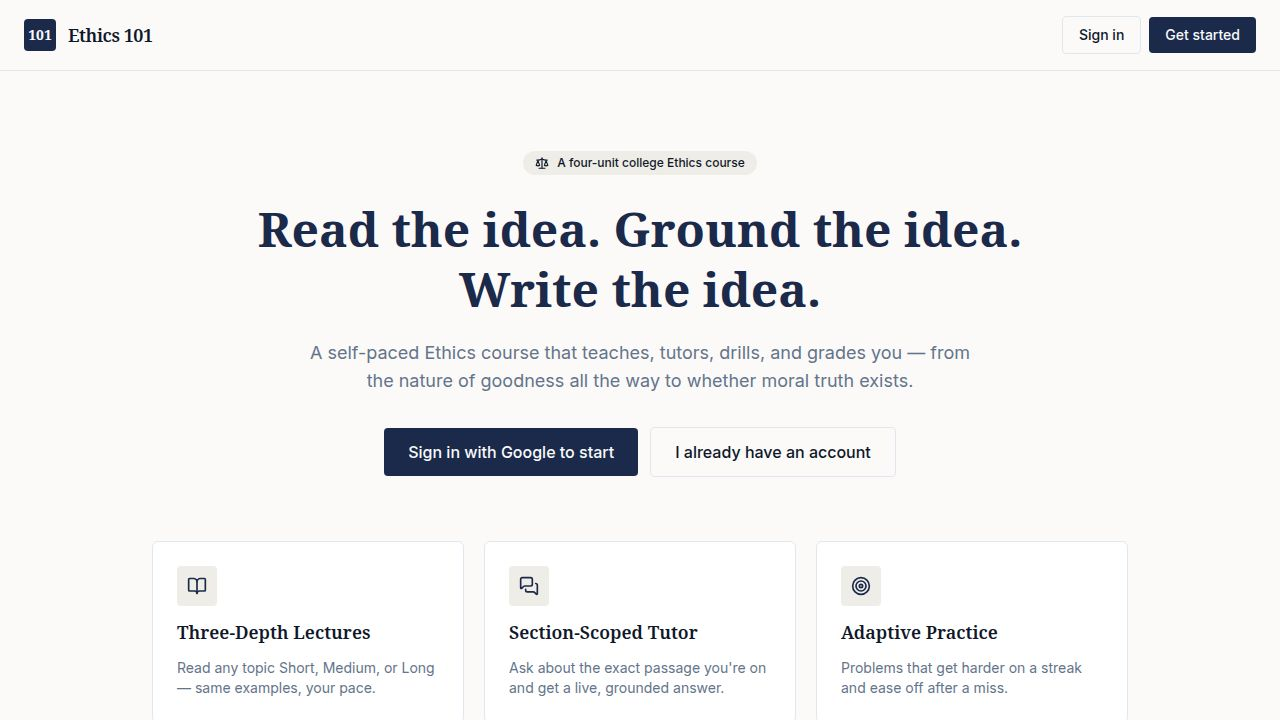
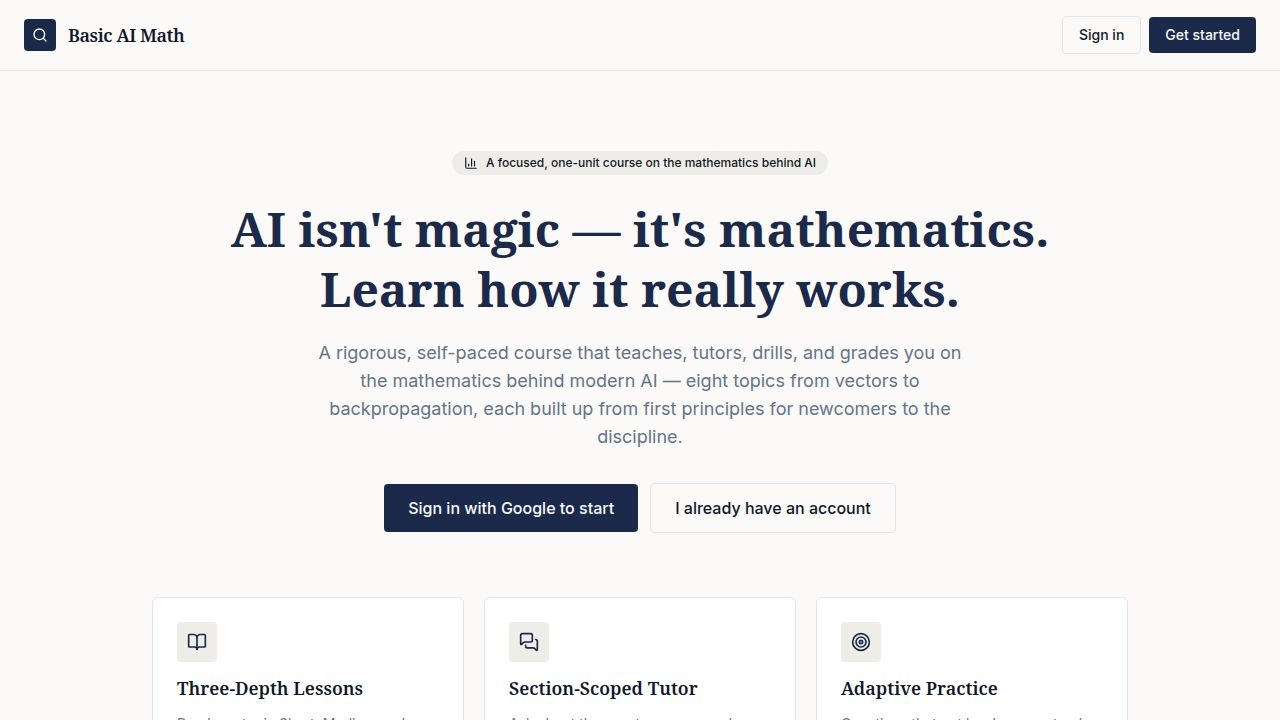
Update course branding and content to reflect a more professional audience
Rename course from "Baby AI Math" to "Basic AI Math" across all UI elements, documentation, and metadata. Update lecture content to remove child-friendly language and reframe the audience towards researchers and professionals. Adjust seed content version to trigger a re-seeding of the database with the updated course material.

Replit-Commit-Author: Agent
Replit-Commit-Session-Id: 9e80b682-9e79-450a-805c-8932b54b2754
Replit-Commit-Checkpoint-Type: full_checkpoint
Replit-Commit-Event-Id: 53d1e0ff-c131-4b32-b947-2a290ebf332c
Replit-Commit-Screenshot-Url: https://storage.googleapis.com/screenshot-production-us-central1/c5ab8a75-cbab-4a05-9f81-a2025e105624/9e80b682-9e79-450a-805c-8932b54b2754/7X1zvFt

diff --git a/artifacts/api-server/src/lib/seed.ts b/artifacts/api-server/src/lib/seed.ts
@@ -14,7 +14,7 @@ import { logger } from "./logger";
 // the value stored in seed_meta; a mismatch forces a full re-seed, so content
 // edits self-heal in every environment (including a republished production)
 // without a manual database wipe.
-const SEED_CONTENT_VERSION = "2026-06-15-baby-ai-math-v1";
+const SEED_CONTENT_VERSION = "2026-06-16-basic-ai-math-v2";
 
 type SeedTopic = {
   slug: string;
@@ -26,7 +26,7 @@ type SeedTopic = {
 };
 
 const TOPICS: SeedTopic[] = [
-  // Unit 1 — Baby AI Math: the math behind the machine
+  // Unit 1 — Basic AI Math: the math behind the machine
   {
     slug: "why-ai-is-really-math",
     title: "Why AI is really math",
@@ -35,7 +35,7 @@ const TOPICS: SeedTopic[] = [
     lectureTitle: "1.1 Why AI is really math (the idea behind the machine)",
     body: `# Why AI is really math
 
-You type a question and a chatbot answers in fluent, friendly sentences — it really does feel like there's a tiny mind inside the box. There isn't. Underneath the human-sounding words, an AI is doing one thing: an unimaginable amount of plain arithmetic on lists of numbers. This whole course is about that surprising truth — **AI is really math** — and the good news is the math behind it is far gentler than its reputation.
+You type a question and a chatbot answers in fluent, natural sentences — it really does feel like there's a mind inside the box. There isn't. Underneath the human-sounding words, an AI is doing one thing: an unimaginable amount of plain arithmetic on lists of numbers. This whole course is about that surprising truth — **AI is really math** — and the good news is the math behind it is far gentler than its reputation.
 
 ## Everything becomes numbers
 
@@ -155,7 +155,7 @@ When a translation model turns an English sentence into Spanish, your words ente
     lectureTitle: "1.5 Slopes and gradients: which way is 'better'?",
     body: `# Slopes and gradients
 
-So far we have a machine that turns inputs into outputs by pushing numbers through matrices. But out of the box, its millions of dials are set to nonsense and its answers are wrong. To learn, it has to figure out, for every single dial, *which way should I turn this to do better?* The mathematical idea that answers "which way is better" is the **slope**, and its grown-up version — the **gradient** — is the compass that all of AI learning is built on.
+So far we have a machine that turns inputs into outputs by pushing numbers through matrices. But out of the box, its millions of dials are set to nonsense and its answers are wrong. To learn, it has to figure out, for every single dial, *which way should I turn this to do better?* The mathematical idea that answers "which way is better" is the **slope**, and its higher-dimensional version — the **gradient** — is the compass that all of AI learning is built on.
 
 ## Slope: how steep, and which way
 
@@ -388,7 +388,7 @@ const ASSIGNMENTS: SeedAssignment[] = [
   },
   {
     kind: "test",
-    title: "Unit Test — Baby AI Math: The Math Behind the Machine",
+    title: "Unit Test — Basic AI Math: The Math Behind the Machine",
     weekNumber: 1,
     isTimed: true,
     timeLimitMinutes: 30,
@@ -471,7 +471,7 @@ const ASSIGNMENTS: SeedAssignment[] = [
   },
   {
     kind: "final",
-    title: "Final — Baby AI Math: The Math Behind the Machine",
+    title: "Final — Basic AI Math: The Math Behind the Machine",
     weekNumber: 1,
     isTimed: true,
     timeLimitMinutes: 45,
@@ -640,7 +640,7 @@ export async function seedReasoningPrimersIfMissing(): Promise<void> {
 }
 
 export async function seedIfEmpty(): Promise<void> {
-  // The course was migrated to the Baby AI Math syllabus. Detect the marker
+  // The course was migrated to the Basic AI Math syllabus. Detect the marker
   // topic; if present and the content version matches, the content is current
   // and we skip. This makes the seed self-healing across environments: a
   // database that still holds older content (e.g. a previous curriculum) is
@@ -689,7 +689,7 @@ export async function seedIfEmpty(): Promise<void> {
     const row = (existing.rows[0] ?? {}) as { n?: number };
     if ((row.n ?? 0) > 0) {
       logger.warn(
-        "Seed: stale course content detected — replacing with the Baby AI Math curriculum",
+        "Seed: stale course content detected — replacing with the Basic AI Math curriculum",
       );
       await tx.execute(
         sql`TRUNCATE TABLE answers, attempts, practice_attempts, practice_problems, practice_sessions, problems, assignments, lectures, topics, diagnostic_responses, diagnostic_attempts, diagnostic_items, diagnostic_assessments RESTART IDENTITY CASCADE`,

diff --git a/artifacts/qr-course/src/pages/Landing.tsx b/artifacts/qr-course/src/pages/Landing.tsx
@@ -62,7 +62,7 @@ export default function Landing() {
             <Search className="w-4 h-4" />
           </div>
           <span className="font-serif font-semibold text-lg tracking-tight">
-            Baby AI Math
+            Basic AI Math
           </span>
         </div>
         <div className="flex items-center gap-2">
@@ -89,15 +89,16 @@ export default function Landing() {
         <section className="max-w-4xl mx-auto px-6 pt-20 pb-16 text-center">
           <div className="inline-flex items-center gap-2 px-3 py-1 rounded-full bg-secondary text-secondary-foreground text-xs font-medium mb-6">
             <BarChart3 className="w-3.5 h-3.5" />
-            A friendly, one-unit intro to the math behind AI
+            A focused, one-unit course on the mathematics behind AI
           </div>
           <h1 className="text-4xl md:text-5xl font-serif font-bold text-primary leading-tight mb-5">
-            AI isn't magic — it's math. Let's understand it together.
+            AI isn't magic — it's mathematics. Learn how it really works.
           </h1>
           <p className="text-lg text-muted-foreground max-w-2xl mx-auto mb-8">
-            A self-paced course that teaches, tutors, drills, and grades you —
-            the math behind AI in plain language, no prior math needed — every idea
-            is explained in plain words. Perfect for curious students and grown-ups alike.
+            A rigorous, self-paced course that teaches, tutors, drills, and grades
+            you on the mathematics behind modern AI — eight topics from vectors to
+            backpropagation, each built up from first principles for newcomers to
+            the discipline.
           </p>
           <div className="flex items-center justify-center gap-3">
             <Link href="/sign-up">
@@ -162,7 +163,7 @@ export default function Landing() {
       </main>
 
       <footer className="border-t border-border px-6 py-6 text-center text-sm text-muted-foreground">
-        Baby AI Math — where the curriculum, the tutor, the grader, and the
+        Basic AI Math — where the curriculum, the tutor, the grader, and the
         integrity check all live in one room.
       </footer>
     </div>

diff --git a/artifacts/qr-course/index.html b/artifacts/qr-course/index.html
@@ -3,14 +3,14 @@
   <head>
     <meta charset="UTF-8" />
     <meta name="viewport" content="width=device-width, initial-scale=1.0" />
-    <title>Baby AI Math</title>
-    <meta name="description" content="Baby AI Math — a friendly, self-paced intro to the math behind AI for students and curious adults: plain-language lessons, an AI tutor, adaptive practice, and AI-graded work. No prior math or coding required." />
-    <meta property="og:title" content="Baby AI Math" />
-    <meta property="og:description" content="Baby AI Math — a friendly, self-paced intro to the math behind AI for students and curious adults: plain-language lessons, an AI tutor, adaptive practice, and AI-graded work. No prior math or coding required." />
+    <title>Basic AI Math</title>
+    <meta name="description" content="Basic AI Math — a rigorous, self-paced introduction to the mathematics behind modern AI: structured lessons, a section-scoped AI tutor, adaptive practice, and AI-graded work with built-in academic-integrity detection." />
+    <meta property="og:title" content="Basic AI Math" />
+    <meta property="og:description" content="Basic AI Math — a rigorous, self-paced introduction to the mathematics behind modern AI: structured lessons, a section-scoped AI tutor, adaptive practice, and AI-graded work with built-in academic-integrity detection." />
     <meta property="og:type" content="website" />
     <meta name="twitter:card" content="summary_large_image" />
-    <meta name="twitter:title" content="Baby AI Math" />
-    <meta name="twitter:description" content="Baby AI Math — a friendly, self-paced intro to the math behind AI for students and curious adults: plain-language lessons, an AI tutor, adaptive practice, and AI-graded work. No prior math or coding required." />
+    <meta name="twitter:title" content="Basic AI Math" />
+    <meta name="twitter:description" content="Basic AI Math — a rigorous, self-paced introduction to the mathematics behind modern AI: structured lessons, a section-scoped AI tutor, adaptive practice, and AI-graded work with built-in academic-integrity detection." />
     <link rel="icon" type="image/svg+xml" href="/favicon.svg" />
     <link rel="preconnect" href="https://fonts.googleapis.com">
     <link rel="preconnect" href="https://fonts.gstatic.com" crossorigin>

diff --git a/artifacts/api-server/src/routes/course.ts b/artifacts/api-server/src/routes/course.ts
@@ -21,9 +21,9 @@ const router: IRouter = Router();
 
 const WEEK_TITLES: Record<number, { title: string; summary: string }> = {
   1: {
-    title: "Baby AI Math: The Math Behind the Machine",
+    title: "Basic AI Math: The Math Behind the Machine",
     summary:
-      "What the math behind AI really is and why a chatbot's reply is just numbers and arithmetic at huge scale, how words and images become lists of numbers (vectors and embeddings), how AI measures likeness with the dot product and distance, how matrices move information through a network, what slopes and gradients tell us, how gradient descent learns by rolling downhill, how probability lets AI handle uncertainty, and how backpropagation ties it all together — all in plain language, no prior math or coding required.",
+      "What the math behind AI really is and why a chatbot's reply is just numbers and arithmetic at huge scale, how words and images become lists of numbers (vectors and embeddings), how AI measures likeness with the dot product and distance, how matrices move information through a network, what slopes and gradients tell us, how gradient descent learns by rolling downhill, how probability lets AI handle uncertainty, and how backpropagation ties it all together — each idea built up from first principles, one step at a time.",
   },
 };
 
@@ -112,7 +112,7 @@ router.get("/course/overview", async (_req, res) => {
 
   res.json(
     GetCourseOverviewResponse.parse({
-      title: "Baby AI Math",
+      title: "Basic AI Math",
       weeks,
       totals: { assignmentsCompleted, assignmentsTotal, practiceCount },
     }),

diff --git a/artifacts/course-video/index.html b/artifacts/course-video/index.html
@@ -3,16 +3,16 @@
   <head>
     <meta charset="UTF-8" />
     <meta name="viewport" content="width=device-width, initial-scale=1.0, maximum-scale=1" />
-    <title>Baby AI Math — Walkthrough</title>
+    <title>Basic AI Math — Walkthrough</title>
     <link rel="icon" type="image/svg+xml" href="/favicon.svg" />
 
-    <meta property="og:title" content="Baby AI Math — Walkthrough" />
+    <meta property="og:title" content="Basic AI Math — Walkthrough" />
     <meta property="og:description" content="An animated video built with Replit." />
     <meta property="og:type" content="website" />
     <meta property="og:image" content="https://replit.com/public/images/opengraph.png" />
     <meta name="twitter:card" content="summary_large_image" />
     <meta name="twitter:site" content="@replit" />
-    <meta name="twitter:title" content="Baby AI Math — Walkthrough" />
+    <meta name="twitter:title" content="Basic AI Math — Walkthrough" />
     <meta name="twitter:description" content="An animated video built with Replit." />
     <meta name="twitter:image" content="https://replit.com/public/images/opengraph.png" />
 

diff --git a/artifacts/course-video/src/components/video/video_scenes/Scene1.tsx b/artifacts/course-video/src/components/video/video_scenes/Scene1.tsx
@@ -44,8 +44,8 @@ export function Scene1() {
               transition={{ duration: 0.8 }}
               className="text-[1.5vw] text-[#4A5568] max-w-2xl mt-6"
             >
-              A friendly, plain-language intro to AI. <br/>
-              Taught, tutored, and graded by AI. No prior math or coding.
+              A rigorous introduction to the mathematics of modern AI. <br/>
+              Taught, tutored, and graded by AI — from first principles.
             </motion.p>
           </motion.div>
         ) : (

diff --git a/artifacts/qr-course/src/App.tsx b/artifacts/qr-course/src/App.tsx
@@ -235,13 +235,13 @@ function ClerkProviderWithRoutes() {
         signIn: {
           start: {
             title: "Welcome back",
-            subtitle: "Sign in to continue your Baby AI Math course",
+            subtitle: "Sign in to continue your Basic AI Math course",
           },
         },
         signUp: {
           start: {
             title: "Create your account",
-            subtitle: "Start your AI math journey with Baby AI Math",
+            subtitle: "Start your Basic AI Math course",
           },
         },
       }}

diff --git a/artifacts/qr-course/src/components/layout/Layout.tsx b/artifacts/qr-course/src/components/layout/Layout.tsx
@@ -30,7 +30,7 @@ export function Sidebar() {
             <div className="w-8 h-8 bg-primary rounded-md flex items-center justify-center text-primary-foreground">
               <Search className="w-4 h-4" />
             </div>
-            <span className="font-serif font-semibold text-lg tracking-tight">Baby AI Math</span>
+            <span className="font-serif font-semibold text-lg tracking-tight">Basic AI Math</span>
           </div>
         </Link>
       </div>
@@ -56,7 +56,7 @@ export function Sidebar() {
       </div>
 
       <div className="p-4 border-t border-border text-xs text-muted-foreground text-center">
-        Baby AI Math
+        Basic AI Math
       </div>
     </div>
   );

diff --git a/artifacts/course-video/src/components/video/AppShell.tsx b/artifacts/course-video/src/components/video/AppShell.tsx
@@ -19,7 +19,7 @@ export function AppShell({ children, activeTab = 'Dashboard' }: { children: Reac
           <div className="w-8 h-8 rounded-md bg-[#1A2B3D] flex items-center justify-center">
             <Search className="w-5 h-5 text-white" />
           </div>
-          <span className="font-display font-bold text-lg">Baby AI Math</span>
+          <span className="font-display font-bold text-lg">Basic AI Math</span>
         </div>
         
         <nav className="flex flex-col gap-2 flex-1">

diff --git a/artifacts/course-video/src/components/video/video_scenes/Scene9.tsx b/artifacts/course-video/src/components/video/video_scenes/Scene9.tsx
@@ -32,7 +32,7 @@ export function Scene9() {
             <line x1="21" y1="21" x2="16.65" y2="16.65"></line>
           </svg>
         </div>
-        <span className="font-display font-bold text-4xl text-white">Baby AI Math</span>
+        <span className="font-display font-bold text-4xl text-white">Basic AI Math</span>
       </motion.div>
 
       <motion.div

diff --git a/artifacts/qr-course/src/pages/Dashboard.tsx b/artifacts/qr-course/src/pages/Dashboard.tsx
@@ -18,7 +18,7 @@ export default function Dashboard() {
           <h1 className="text-3xl font-serif font-bold text-primary mb-2">
             {overview ? overview.title : <Skeleton className="h-9 w-64" />}
           </h1>
-          <p className="text-muted-foreground">Welcome to your Baby AI Math course workspace.</p>
+          <p className="text-muted-foreground">Welcome to your Basic AI Math course workspace.</p>
         </div>
 
         <ReasoningCallout phase="before" />

diff --git a/youtube-description.md b/youtube-description.md
@@ -1,29 +1,29 @@
-# YouTube — Baby AI Math
+# YouTube — Basic AI Math
 
 ## 🎬 Title options (pick one)
 
-1. Baby AI Math — an AI course that teaches, tutors & grades itself
-2. I built an AI-powered course on the math behind AI (it even catches AI cheating)
-3. Inside the Machine's Mind — a friendly AI-math course for curious students & adults
+1. Basic AI Math — an AI course that teaches, tutors & grades itself
+2. I built an AI-powered course on the mathematics behind AI (it even catches AI cheating)
+3. Inside the Machine's Mind — the mathematical foundations of modern AI
 
 ---
 
 ## 📝 Description (paste into YouTube)
 
-Meet **Baby AI Math** — a friendly, one-unit intro to the math behind artificial intelligence that teaches, tutors, drills, and grades itself, entirely with AI. No prior math, no coding, no jargon. Just plain-language lessons about *how AI actually works* — how it's really just numbers and arithmetic at huge scale, explained intuitively from start to finish.
+**Basic AI Math** is a rigorous, self-paced course on the mathematics behind modern artificial intelligence — taught, tutored, drilled, and graded entirely by AI, with built-in academic-integrity enforcement. It builds the subject from first principles for anyone entering the field: a complete one-unit curriculum that explains how AI is, underneath, numbers and arithmetic at scale — from turning words into vectors all the way to backpropagation.
 
 In this video you'll see the whole course in action:
 
-🔎 Eight plain-language topics — from "why AI is really math" all the way to "backpropagation: how the whole thing teaches itself"
-📖 Three-depth lessons — read any topic Short, Medium, or Long, same ideas at your pace
+🔎 Eight topics — from "why AI is really math" all the way to "backpropagation: how the whole thing teaches itself"
+📖 Three-depth lessons — read any topic Short, Medium, or Long, the same ideas at the depth you want
 💬 A section-scoped AI tutor that answers questions about the exact paragraph you're reading
 🎯 Adaptive practice that gets harder when you're on a streak and eases off when you're stuck
 📝 AI-graded homework, a unit test, and a final — each with real written feedback
 🛡️ Two-layer AI-authorship detection on every answer you submit (a text classifier AND a keystroke-pattern detector)
 
-Perfect for curious adults wanting a quick but meaningful intro to how AI works, students exploring AI, instructors exploring AI-taught coursework, and academic-integrity researchers.
+Built for researchers and professionals entering the discipline, instructors evaluating AI-taught coursework, and academic-integrity researchers studying how AI authorship can be detected.
 
-Start learning — no instructor, no textbook, no prior math.
+A complete curriculum, an AI tutor, an AI grader, and an integrity check — in one place.
 
 ---
 
@@ -32,13 +32,13 @@ Start learning — no instructor, no textbook, no prior math.
 0:00 Inside the machine's mind
 0:08 What the course is
 0:20 The AI tutor, lessons & adaptive practice
-0:35 Baby AI Math
+0:35 Basic AI Math
 
 ---
 
 ## 🏷️ Hashtags
 
-#AImath #ArtificialIntelligence #MachineLearning #AIeducation #EdTech #OnlineLearning #HowAIWorks #LearnSomethingNew
+#AImath #ArtificialIntelligence #MachineLearning #AIeducation #EdTech #OnlineLearning #HowAIWorks #DeepLearning
 
 ---
 